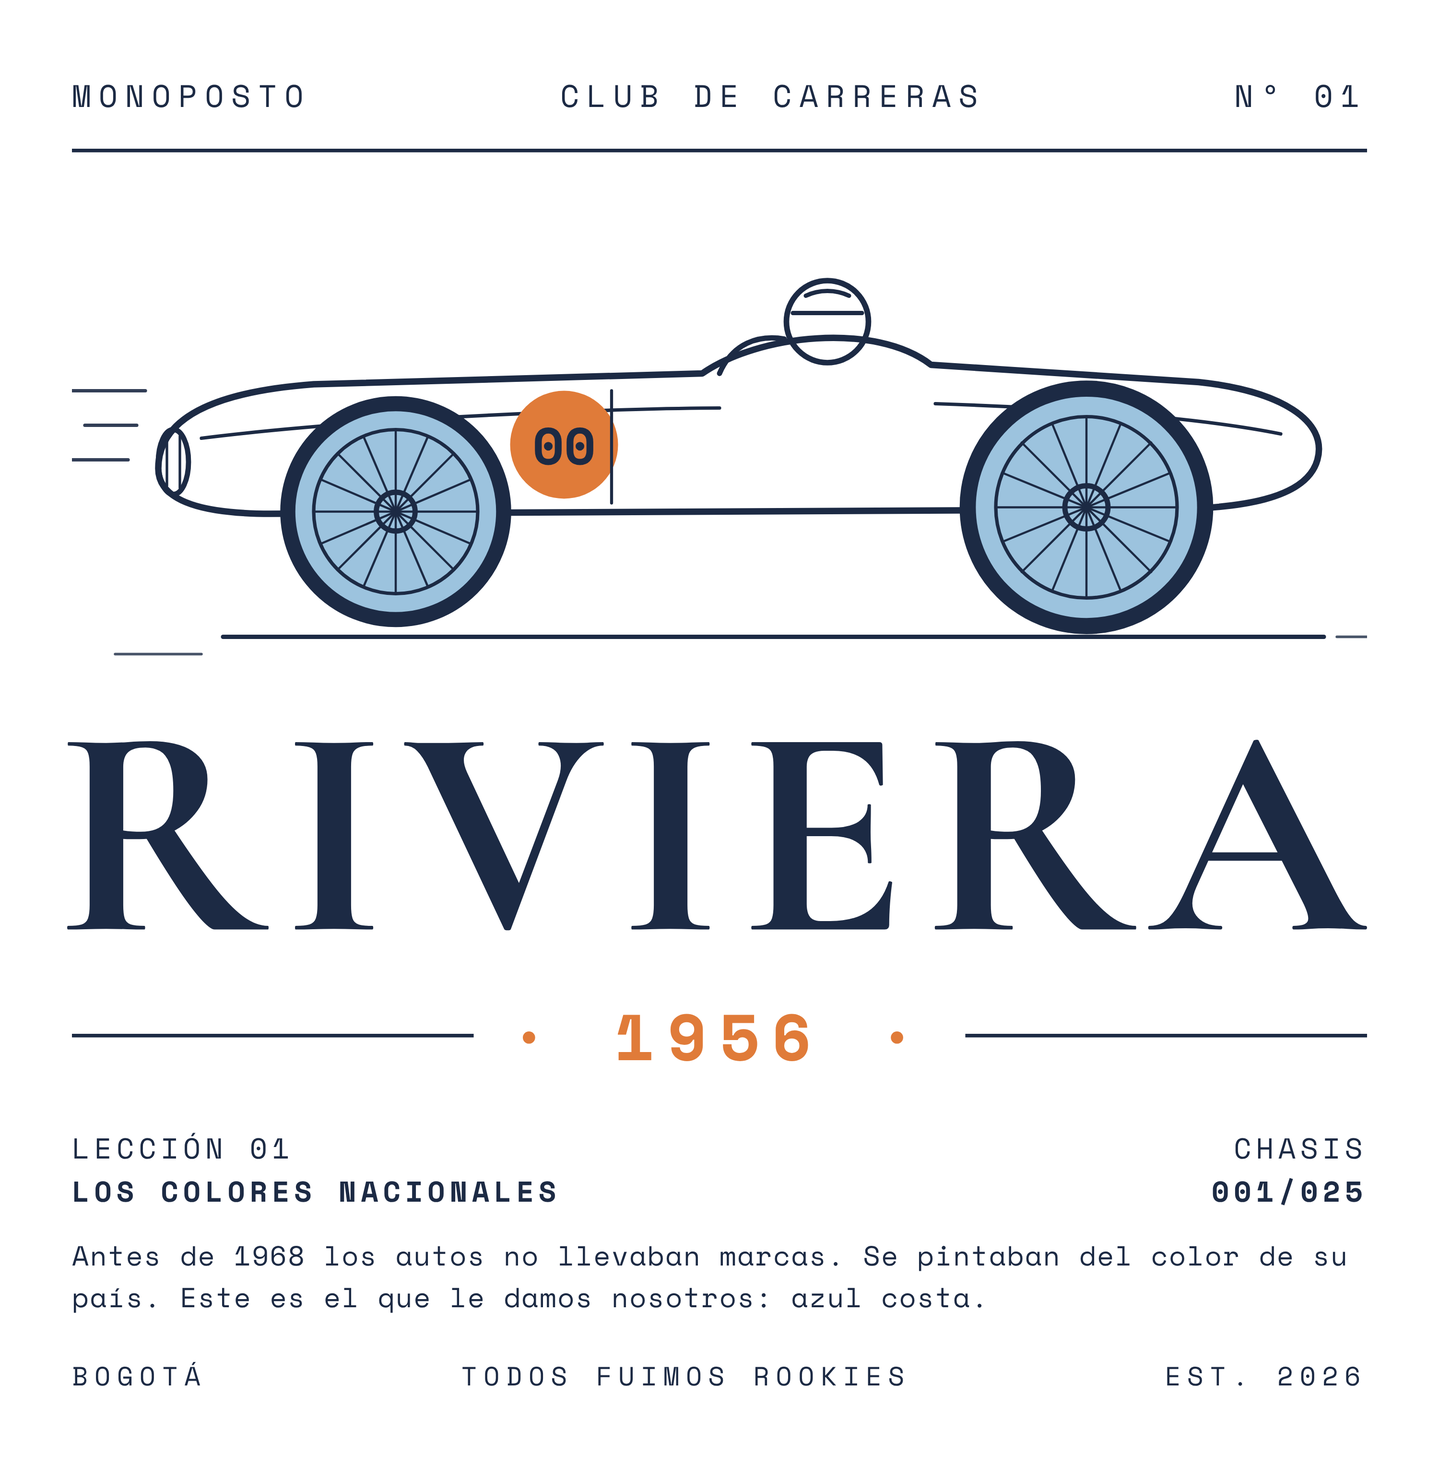
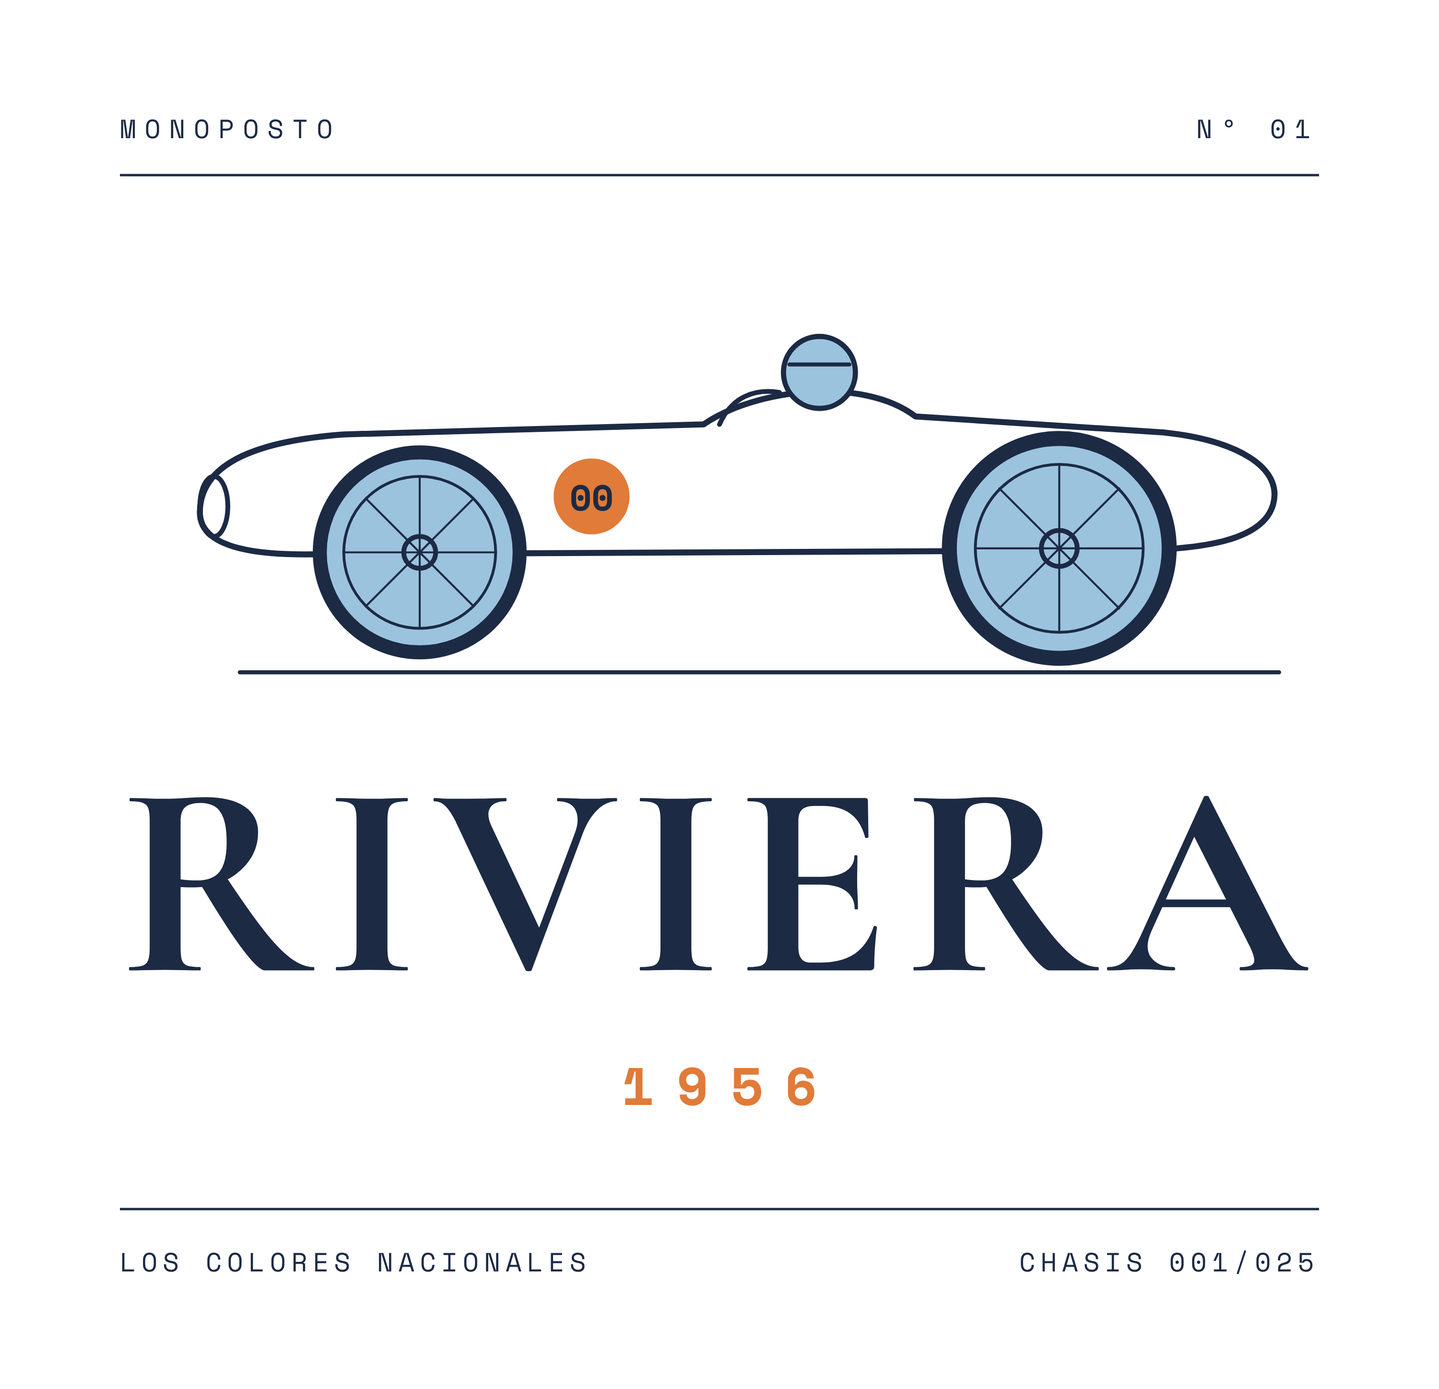
Pule el arte de estampado de Riviera 01
Claude-Session: https://claude.ai/code/session_01G6qCgmRuuFM6obdDqM2xVd

diff --git a/marca-f1/colecciones/riviera-01/estampados/prints.html b/marca-f1/colecciones/riviera-01/estampados/prints.html
@@ -5,128 +5,111 @@
 <link href="https://fonts.googleapis.com/css2?family=Cormorant+Garamond:ital,wght@0,500;0,600;0,700;1,500;1,600&family=Pinyon+Script&family=Space+Mono:wght@400;700&display=swap" rel="stylesheet">
 <style>
 body{margin:0;background:transparent}
-.p{width:1200px;box-sizing:border-box;padding:60px;display:flex;flex-direction:column;align-items:center}
+.p{width:1200px;box-sizing:border-box;padding:90px 100px;display:flex;flex-direction:column;align-items:center}
 .mono{font-family:'Space Mono',monospace}
 .serif{font-family:'Cormorant Garamond',serif}
 p{margin:0}
+.row{width:100%;display:flex;justify-content:space-between;align-items:baseline}
+.rule{width:100%;height:2px;background:currentColor}
 </style>
 </head>
 <body>
 
-<!-- 1. LA RIVIERA: espalda, tinta azul Monza + naranja, sobre camiseta azul cielo -->
-<div class="p" id="riviera" style="color:#1C2A44;gap:26px">
-<div class="mono" style="width:100%;display:flex;justify-content:space-between;font-size:26px;letter-spacing:.24em"><p>MONOPOSTO</p><p>CLUB DE CARRERAS</p><p>Nº 01</p></div>
-<div style="width:100%;height:3px;background:#1C2A44"></div>
-<svg viewBox="0 0 600 230" width="1080" height="414" fill="none" stroke="#1C2A44" stroke-linecap="round" stroke-linejoin="round">
-<g stroke-width="1.6" opacity=".9"><line x1="0" y1="96" x2="34" y2="96"/><line x1="6" y1="112" x2="30" y2="112"/><line x1="0" y1="128" x2="26" y2="128"/></g>
+<!-- 1. LA RIVIERA · espalda · tinta azul Monza + naranja · camiseta azul cielo -->
+<div class="p" id="riviera" style="color:#1C2A44">
+<div class="row mono" style="font-size:22px;letter-spacing:.32em"><p>MONOPOSTO</p><p>Nº 01</p></div>
+<div class="rule" style="margin-top:22px"></div>
+<svg viewBox="0 0 600 220" width="1000" height="367" fill="none" stroke="#1C2A44" stroke-linecap="round" stroke-linejoin="round" style="margin-top:60px">
 <path stroke-width="3" d="M40 132 C40 106 72 96 112 93 L292 88 C318 70 372 64 398 84 L522 92 C560 96 582 110 577 128 C572 146 542 151 502 151 L92 153 C60 153 40 147 40 132 Z"/>
-<path stroke-width="1.6" d="M60 118 C 140 108 260 104 300 104 M 400 102 C 460 104 520 108 560 116"/>
 <ellipse stroke-width="2.4" cx="47" cy="129" rx="7" ry="15"/>
-<g stroke-width="1.2"><line x1="44" y1="118" x2="44" y2="140"/><line x1="50" y1="117" x2="50" y2="141"/></g>
 <path stroke-width="2.4" d="M300 88 C 306 74 318 70 330 72"/>
-<circle stroke-width="2.6" cx="350" cy="64" r="19"/>
-<path stroke-width="2" d="M334 60 L 366 60 M 340 52 C 346 49 354 49 360 52"/>
-<circle cx="228" cy="121" r="25" fill="#E07B39" stroke="none"/>
-<text x="228" y="130" text-anchor="middle" font-family="Space Mono, monospace" font-size="24" font-weight="700" fill="#1C2A44" stroke="none">00</text>
-<g stroke-width="1.4"><line x1="250" y1="96" x2="250" y2="148"/></g>
-<circle stroke-width="7" cx="150" cy="152" r="50" fill="#9CC3DE"/>
-<circle stroke-width="1.6" cx="150" cy="152" r="38"/>
-<circle stroke-width="2.4" cx="150" cy="152" r="9"/>
-<g stroke-width="1"><line x1="150" y1="114" x2="150" y2="190"/><line x1="112" y1="152" x2="188" y2="152"/><line x1="123" y1="125" x2="177" y2="179"/><line x1="177" y1="125" x2="123" y2="179"/><line x1="135" y1="117" x2="165" y2="187"/><line x1="165" y1="117" x2="135" y2="187"/><line x1="115" y1="137" x2="185" y2="167"/><line x1="115" y1="167" x2="185" y2="137"/></g>
-<circle stroke-width="7.5" cx="470" cy="150" r="55" fill="#9CC3DE"/>
-<circle stroke-width="1.6" cx="470" cy="150" r="42"/>
-<circle stroke-width="2.4" cx="470" cy="150" r="10"/>
-<g stroke-width="1"><line x1="470" y1="108" x2="470" y2="192"/><line x1="428" y1="150" x2="512" y2="150"/><line x1="440" y1="120" x2="500" y2="180"/><line x1="500" y1="120" x2="440" y2="180"/><line x1="454" y1="111" x2="486" y2="189"/><line x1="486" y1="111" x2="454" y2="189"/><line x1="431" y1="134" x2="509" y2="166"/><line x1="431" y1="166" x2="509" y2="134"/></g>
-<line stroke-width="2" x1="70" y1="210" x2="580" y2="210"/>
-<g stroke-width="1.2" opacity=".8"><line x1="20" y1="218" x2="60" y2="218"/><line x1="586" y1="210" x2="600" y2="210"/></g>
-</svg>
-<p class="serif" style="font-weight:700;font-size:250px;line-height:.82;letter-spacing:.06em">RIVIERA</p>
-<div style="display:flex;align-items:center;gap:30px;width:100%"><div style="flex:1;height:3px;background:#1C2A44"></div><p class="mono" style="font-size:54px;letter-spacing:.2em;color:#E07B39;font-weight:700">· 1956 ·</p><div style="flex:1;height:3px;background:#1C2A44"></div></div>
-<div class="mono" style="width:100%;display:grid;grid-template-columns:1fr 1fr;gap:18px 60px;font-size:24px;line-height:1.5;margin-top:10px">
-<div><p style="letter-spacing:.16em">LECCIÓN 01</p><p style="letter-spacing:.16em;font-weight:700">LOS COLORES NACIONALES</p></div>
-<div style="text-align:right"><p style="letter-spacing:.16em">CHASIS</p><p style="letter-spacing:.16em;font-weight:700">001/025</p></div>
-<p style="grid-column:1/3;font-size:23px;letter-spacing:.04em">Antes de 1968 los autos no llevaban marcas. Se pintaban del color de su país. Este es el que le damos nosotros: azul costa.</p>
-</div>
-<div class="mono" style="width:100%;display:flex;justify-content:space-between;font-size:22px;letter-spacing:.24em;margin-top:6px"><p>BOGOTÁ</p><p>TODOS FUIMOS ROOKIES</p><p>EST. 2026</p></div>
-</div>
-
-<!-- 2. CIRCUITO: espalda, tinta azul Monza, sobre camiseta crema -->
-<div class="p" id="circuito" style="color:#1C2A44;gap:30px">
-<p class="mono" style="font-size:28px;letter-spacing:.3em">MONOPOSTO · LECCIÓN 02</p>
-<svg viewBox="0 0 640 420" width="1040" height="683" fill="none" stroke="#1C2A44" stroke-linecap="round" stroke-linejoin="round">
-<path stroke-width="9" d="M120 330 L 380 330 C 430 330 450 310 470 280 L 520 200 C 540 168 530 130 495 118 L 430 98 C 400 88 392 60 410 44 C 428 28 420 10 392 12 L 250 22 C 220 24 210 50 228 70 C 246 92 236 118 204 122 L 130 132 C 92 138 70 168 76 205 L 84 280 C 88 312 98 330 120 330 Z"/>
-<path stroke-width="1.4" stroke-dasharray="3 7" d="M120 352 L 380 352 C 444 352 472 326 492 292 L 542 210 C 568 168 552 112 502 96"/>
-<g stroke-width="0"><rect x="250" y="320" width="5" height="5" fill="#1C2A44"/><rect x="255" y="325" width="5" height="5" fill="#1C2A44"/><rect x="250" y="330" width="5" height="5" fill="#1C2A44"/><rect x="255" y="335" width="5" height="5" fill="#1C2A44"/></g>
-<line stroke-width="2" x1="252" y1="312" x2="252" y2="348"/>
-<g font-family="Space Mono, monospace" font-size="13" fill="#1C2A44" stroke="none">
-<text x="258" y="372">SALIDA / META</text>
-<text x="488" y="300">2</text><text x="490" y="206">3</text><text x="478" y="88">4</text><text x="380" y="40">5</text><text x="216" y="16">6</text><text x="190" y="104">7</text><text x="54" y="160">8</text><text x="62" y="300">9</text>
+<circle stroke-width="2.6" cx="350" cy="62" r="18" fill="#9CC3DE"/>
+<path stroke-width="2" d="M335 58 L 365 58"/>
+<circle cx="236" cy="124" r="19" fill="#E07B39" stroke="none"/>
+<text x="236" y="131" text-anchor="middle" font-family="Space Mono, monospace" font-size="18" font-weight="700" fill="#1C2A44" stroke="none">00</text>
+<g fill="#9CC3DE">
+<circle stroke-width="7" cx="150" cy="152" r="50"/>
+<circle stroke-width="7.5" cx="470" cy="150" r="55"/>
 </g>
-<circle cx="400" cy="318" r="16" fill="#E07B39" stroke="none"/>
-<text x="400" y="323" text-anchor="middle" font-family="Space Mono, monospace" font-size="15" font-weight="700" fill="#1C2A44" stroke="none">1</text>
-<path stroke="#E07B39" stroke-width="2" d="M410 332 C 420 370 440 392 470 398"/>
-<text x="476" y="404" font-family="Cormorant Garamond, serif" font-style="italic" font-size="22" fill="#E07B39" stroke="none">la primera curva</text>
-<text x="300" y="215" text-anchor="middle" font-family="Space Mono, monospace" font-size="11" letter-spacing="3" fill="#1C2A44" stroke="none">TRAZADO DEL CLUB · 4,7 KM</text>
+<circle stroke-width="1.4" cx="150" cy="152" r="38"/><circle stroke-width="2.4" cx="150" cy="152" r="8"/>
+<circle stroke-width="1.4" cx="470" cy="150" r="42"/><circle stroke-width="2.4" cx="470" cy="150" r="9"/>
+<g stroke-width="1"><line x1="150" y1="114" x2="150" y2="190"/><line x1="112" y1="152" x2="188" y2="152"/><line x1="123" y1="125" x2="177" y2="179"/><line x1="177" y1="125" x2="123" y2="179"/>
+<line x1="470" y1="108" x2="470" y2="192"/><line x1="428" y1="150" x2="512" y2="150"/><line x1="440" y1="120" x2="500" y2="180"/><line x1="500" y1="120" x2="440" y2="180"/></g>
+<line stroke-width="2" x1="60" y1="212" x2="580" y2="212"/>
 </svg>
-<p class="mono" style="font-weight:700;font-size:150px;line-height:.9;letter-spacing:-.02em">13.05.1950</p>
-<p class="serif" style="font-style:italic;font-size:76px;line-height:1">La primera curva.</p>
-<p class="mono" style="font-size:23px;letter-spacing:.06em;text-align:center;max-width:960px;line-height:1.55">Ese día se corrió la primera carrera del campeonato mundial. Todo lo que vino después empezó en una curva.</p>
-<p class="mono" style="font-size:22px;letter-spacing:.24em">RIVIERA 01 · CHASIS 001/025</p>
+<p class="serif" style="font-weight:700;font-size:230px;line-height:.8;letter-spacing:.05em;margin-top:70px">RIVIERA</p>
+<p class="mono" style="font-size:44px;letter-spacing:.42em;color:#E07B39;font-weight:700;margin-top:44px;padding-left:.42em">1956</p>
+<div class="rule" style="margin-top:70px"></div>
+<div class="row mono" style="font-size:22px;letter-spacing:.2em;margin-top:26px"><p>LOS COLORES NACIONALES</p><p>CHASIS 001/025</p></div>
 </div>
 
-<!-- 3. PARC FERMÉ: firma para bordar en el pecho, hilo azul cielo -->
-<div class="p" id="firma" style="color:#9CC3DE;width:900px;padding:40px">
-<p style="font-family:'Pinyon Script',cursive;font-size:190px;line-height:1.1">Monoposto</p>
-<p class="serif" style="font-weight:600;font-size:34px;letter-spacing:.42em;margin-top:-6px">CLUB DE CARRERAS</p>
+<!-- 2. CIRCUITO · espalda · tinta azul Monza + naranja · camiseta crema -->
+<div class="p" id="circuito" style="color:#1C2A44">
+<div class="row mono" style="font-size:22px;letter-spacing:.32em"><p>MONOPOSTO</p><p>Nº 02</p></div>
+<div class="rule" style="margin-top:22px"></div>
+<svg viewBox="0 0 600 400" width="900" height="600" fill="none" stroke-linecap="round" stroke-linejoin="round" style="margin-top:60px">
+<path stroke="#1C2A44" stroke-width="10" d="M120 330 L 380 330 C 430 330 450 310 470 280 L 520 200 C 540 168 530 130 495 118 L 430 98 C 400 88 392 60 410 44 C 428 28 420 10 392 12 L 250 22 C 220 24 210 50 228 70 C 246 92 236 118 204 122 L 130 132 C 92 138 70 168 76 205 L 84 280 C 88 312 98 330 120 330 Z"/>
+<g fill="#1C2A44"><rect x="236" y="316" width="7" height="7"/><rect x="243" y="323" width="7" height="7"/><rect x="236" y="330" width="7" height="7"/><rect x="243" y="337" width="7" height="7"/><rect x="243" y="316" width="7" height="7" fill="#F2EBDD"/><rect x="236" y="323" width="7" height="7" fill="#F2EBDD"/><rect x="243" y="330" width="7" height="7" fill="#F2EBDD"/><rect x="236" y="337" width="7" height="7" fill="#F2EBDD"/></g>
+<circle cx="452" cy="306" r="17" fill="#E07B39"/>
+<text x="452" y="312" text-anchor="middle" font-family="Space Mono, monospace" font-size="17" font-weight="700" fill="#1C2A44">1</text>
+<path stroke="#E07B39" stroke-width="2" d="M468 316 C 490 340 510 352 530 356"/>
+<text x="538" y="362" font-family="Cormorant Garamond, serif" font-style="italic" font-size="22" fill="#E07B39">curva 1</text>
+</svg>
+<p class="mono" style="font-weight:700;font-size:136px;line-height:1;letter-spacing:-.01em;margin-top:60px">13.05.1950</p>
+<p class="serif" style="font-style:italic;font-size:72px;line-height:1;margin-top:30px">La primera curva.</p>
+<div class="rule" style="margin-top:70px"></div>
+<div class="row mono" style="font-size:22px;letter-spacing:.2em;margin-top:26px"><p>PRIMER GRAN PREMIO DEL MUNDIAL</p><p>001/025</p></div>
 </div>
 
-<!-- 3b. PARC FERMÉ: 00 para la manga -->
-<div class="p" id="cero" style="width:420px;padding:30px;color:#9CC3DE">
-<div style="width:300px;height:300px;border-radius:50%;border:10px solid #9CC3DE;box-sizing:border-box;display:flex;align-items:center;justify-content:center">
-<p class="mono" style="font-weight:700;font-size:140px;line-height:1;color:#E07B39">00</p>
+<!-- 3. PARC FERMÉ · firma para bordar en el pecho · hilo azul cielo -->
+<div class="p" id="firma" style="color:#9CC3DE;width:900px;padding:50px 60px">
+<p style="font-family:'Pinyon Script',cursive;font-size:180px;line-height:1.15">Monoposto</p>
+<p class="serif" style="font-weight:600;font-size:30px;letter-spacing:.5em;padding-left:.5em;margin-top:10px">CLUB DE CARRERAS</p>
+</div>
+
+<!-- 3b. PARC FERMÉ · 00 para la manga -->
+<div class="p" id="cero" style="width:420px;padding:40px">
+<div style="width:300px;height:300px;border-radius:50%;background:#E07B39;display:flex;align-items:center;justify-content:center">
+<p class="mono" style="font-weight:700;font-size:130px;line-height:1;color:#9CC3DE;letter-spacing:-.02em">00</p>
 </div>
 </div>
 
-<!-- 4. DEBUT: espalda del buzo, tinta azul Monza + naranja, sobre azul cielo -->
-<div class="p" id="debut" style="color:#1C2A44;gap:30px">
-<svg viewBox="0 0 400 120" width="900" height="270">
+<!-- 4. DEBUT · espalda del buzo · tinta azul Monza + naranja · azul cielo -->
+<div class="p" id="debut" style="color:#1C2A44">
+<div class="row mono" style="font-size:22px;letter-spacing:.32em"><p>MONOPOSTO</p><p>Nº 04</p></div>
+<div class="rule" style="margin-top:22px"></div>
+<svg viewBox="0 0 400 60" width="800" height="120" style="margin-top:70px">
 <g fill="#1C2A44">
 <rect x="0" y="0" width="20" height="20"/><rect x="40" y="0" width="20" height="20"/><rect x="80" y="0" width="20" height="20"/><rect x="120" y="0" width="20" height="20"/><rect x="160" y="0" width="20" height="20"/><rect x="200" y="0" width="20" height="20"/><rect x="240" y="0" width="20" height="20"/><rect x="280" y="0" width="20" height="20"/><rect x="320" y="0" width="20" height="20"/><rect x="360" y="0" width="20" height="20"/>
 <rect x="20" y="20" width="20" height="20"/><rect x="60" y="20" width="20" height="20"/><rect x="100" y="20" width="20" height="20"/><rect x="140" y="20" width="20" height="20"/><rect x="180" y="20" width="20" height="20"/><rect x="220" y="20" width="20" height="20"/><rect x="260" y="20" width="20" height="20"/><rect x="300" y="20" width="20" height="20"/><rect x="340" y="20" width="20" height="20"/><rect x="380" y="20" width="20" height="20"/>
 <rect x="0" y="40" width="20" height="20"/><rect x="40" y="40" width="20" height="20"/><rect x="80" y="40" width="20" height="20"/><rect x="120" y="40" width="20" height="20"/><rect x="160" y="40" width="20" height="20"/><rect x="200" y="40" width="20" height="20"/><rect x="240" y="40" width="20" height="20"/><rect x="280" y="40" width="20" height="20"/><rect x="320" y="40" width="20" height="20"/><rect x="360" y="40" width="20" height="20"/>
 </g>
-<rect x="0" y="0" width="400" height="60" fill="none" stroke="#1C2A44" stroke-width="2"/>
-<line x1="0" y1="90" x2="400" y2="90" stroke="#E07B39" stroke-width="6"/>
-<line x1="0" y1="106" x2="400" y2="106" stroke="#1C2A44" stroke-width="2"/>
 </svg>
-<p class="serif" style="font-weight:700;font-size:240px;line-height:.85;letter-spacing:.03em">REIMS</p>
-<p class="mono" style="font-weight:700;font-size:110px;line-height:1;color:#E07B39;letter-spacing:.08em">1961</p>
-<p class="serif" style="font-style:italic;font-size:78px;line-height:1.05;text-align:center">Primera carrera,<br>primera victoria.</p>
-<div style="width:100%;height:3px;background:#1C2A44;margin-top:10px"></div>
-<div class="mono" style="width:100%;display:flex;justify-content:space-between;font-size:23px;letter-spacing:.2em"><p>LECCIÓN 04 · EL DEBUT</p><p>CHASIS 001/025</p></div>
-<p class="mono" style="font-size:22px;letter-spacing:.05em;line-height:1.6;text-align:center;max-width:900px">Un rookie llegó sin nada que perder y se fue con la bandera a cuadros. En la historia del campeonato, casi nadie lo ha vuelto a hacer.</p>
-<p class="mono" style="font-size:22px;letter-spacing:.3em">MONOPOSTO · TODOS FUIMOS ROOKIES</p>
+<p class="serif" style="font-weight:700;font-size:230px;line-height:.8;letter-spacing:.04em;margin-top:80px">REIMS</p>
+<p class="mono" style="font-size:44px;letter-spacing:.42em;color:#E07B39;font-weight:700;margin-top:44px;padding-left:.42em">1961</p>
+<p class="serif" style="font-style:italic;font-size:66px;line-height:1.1;text-align:center;margin-top:50px">Primera carrera, primera victoria.</p>
+<div class="rule" style="margin-top:70px"></div>
+<div class="row mono" style="font-size:22px;letter-spacing:.2em;margin-top:26px"><p>EL DEBUT</p><p>CHASIS 001/025</p></div>
 </div>
 
-<!-- 5. CLUB: escudo para el pecho y espalda de la chompa, tinta azul Monza sobre crema -->
-<div class="p" id="club" style="color:#1C2A44;gap:20px">
-<svg viewBox="0 0 500 560" width="760" height="851">
-<defs><path id="arc" d="M90 230 A 160 160 0 0 1 410 230"/></defs>
-<text font-family="Cormorant Garamond, serif" font-weight="700" font-size="46" letter-spacing="14" fill="#1C2A44"><textPath href="#arc" startOffset="50%" text-anchor="middle">MONOPOSTO</textPath></text>
-<path d="M150 170 L 350 170 L 350 330 C 350 410 300 450 250 480 C 200 450 150 410 150 330 Z" fill="none" stroke="#1C2A44" stroke-width="7"/>
-<path d="M164 184 L 336 184 L 336 330 C 336 400 292 436 250 462 C 208 436 164 400 164 330 Z" fill="none" stroke="#1C2A44" stroke-width="2"/>
-<g fill="#1C2A44"><rect x="164" y="184" width="22" height="22"/><rect x="208" y="184" width="22" height="22"/><rect x="252" y="184" width="22" height="22"/><rect x="296" y="184" width="22" height="22"/><rect x="186" y="206" width="22" height="22"/><rect x="230" y="206" width="22" height="22"/><rect x="274" y="206" width="22" height="22"/><rect x="318" y="206" width="18" height="22"/></g>
-<line x1="164" y1="228" x2="336" y2="228" stroke="#1C2A44" stroke-width="2"/>
-<text x="250" y="352" text-anchor="middle" font-family="Pinyon Script, cursive" font-size="130" fill="#1C2A44">M</text>
-<rect x="164" y="378" width="172" height="10" fill="#9CC3DE"/><rect x="236" y="378" width="28" height="10" fill="#E07B39"/>
-<text x="250" y="425" text-anchor="middle" font-family="Space Mono, monospace" font-weight="700" font-size="26" fill="#1C2A44">2026</text>
-<text x="250" y="530" text-anchor="middle" font-family="Space Mono, monospace" font-size="22" letter-spacing="8" fill="#1C2A44">EST. BOGOTÁ</text>
-<g fill="#E07B39"><circle cx="96" cy="300" r="7"/><circle cx="404" cy="300" r="7"/></g>
+<!-- 5. CLUB · escudo + espalda de la chompa · tinta azul Monza · crema -->
+<div class="p" id="club" style="color:#1C2A44">
+<svg viewBox="0 0 500 540" width="700" height="756">
+<defs><path id="arc" d="M50 280 A 200 200 0 0 1 450 280"/></defs>
+<text font-family="Cormorant Garamond, serif" font-weight="700" font-size="42" letter-spacing="16" fill="#1C2A44"><textPath href="#arc" startOffset="50%" text-anchor="middle">MONOPOSTO</textPath></text>
+<path d="M155 160 L 345 160 L 345 320 C 345 396 298 436 250 464 C 202 436 155 396 155 320 Z" fill="none" stroke="#1C2A44" stroke-width="7"/>
+<path d="M169 174 L 331 174 L 331 320 C 331 388 290 422 250 446 C 210 422 169 388 169 320 Z" fill="none" stroke="#1C2A44" stroke-width="2"/>
+<g fill="#1C2A44"><rect x="169" y="174" width="20.25" height="20"/><rect x="209.5" y="174" width="20.25" height="20"/><rect x="250" y="174" width="20.25" height="20"/><rect x="290.5" y="174" width="20.25" height="20"/><rect x="189.25" y="194" width="20.25" height="20"/><rect x="229.75" y="194" width="20.25" height="20"/><rect x="270.25" y="194" width="20.25" height="20"/><rect x="310.75" y="194" width="20.25" height="20"/></g>
+<line x1="169" y1="214" x2="331" y2="214" stroke="#1C2A44" stroke-width="2"/>
+<text x="250" y="330" text-anchor="middle" font-family="Pinyon Script, cursive" font-size="120" fill="#1C2A44">M</text>
+<rect x="169" y="356" width="162" height="8" fill="#9CC3DE"/><rect x="238" y="356" width="24" height="8" fill="#E07B39"/>
+<text x="250" y="402" text-anchor="middle" font-family="Space Mono, monospace" font-weight="700" font-size="22" letter-spacing="4" fill="#1C2A44">2026</text>
+<text x="250" y="520" text-anchor="middle" font-family="Space Mono, monospace" font-size="18" letter-spacing="9" fill="#1C2A44">EST. BOGOTÁ</text>
 </svg>
-<p class="serif" style="font-weight:700;font-size:84px;letter-spacing:.08em;line-height:1;white-space:nowrap">CLUB DE CARRERAS</p>
-<div style="display:flex;align-items:center;gap:26px;width:100%"><div style="flex:1;height:3px;background:#1C2A44"></div><p class="mono" style="font-size:44px;letter-spacing:.22em;color:#E07B39;font-weight:700">ROOKIE CLASS 2026</p><div style="flex:1;height:3px;background:#1C2A44"></div></div>
-<p class="mono" style="font-size:22px;letter-spacing:.06em;line-height:1.6;text-align:center;max-width:980px;margin-top:8px">Nadie nace campeón. Esta chompa es para quienes empezaron a ver la Fórmula 1 hace poco y ya no pueden parar.</p>
-<p class="mono" style="font-size:22px;letter-spacing:.24em">RIVIERA 01 · CHASIS 001/025</p>
+<p class="serif" style="font-weight:700;font-size:80px;letter-spacing:.12em;line-height:1;white-space:nowrap;margin-top:60px;padding-left:.12em">CLUB DE CARRERAS</p>
+<p class="mono" style="font-size:34px;letter-spacing:.36em;color:#E07B39;font-weight:700;margin-top:36px;padding-left:.36em">ROOKIE CLASS 2026</p>
+<div class="rule" style="margin-top:70px"></div>
+<div class="row mono" style="font-size:22px;letter-spacing:.2em;margin-top:26px"><p>TODOS FUIMOS ROOKIES</p><p>CHASIS 001/025</p></div>
 </div>
 
 </body>
